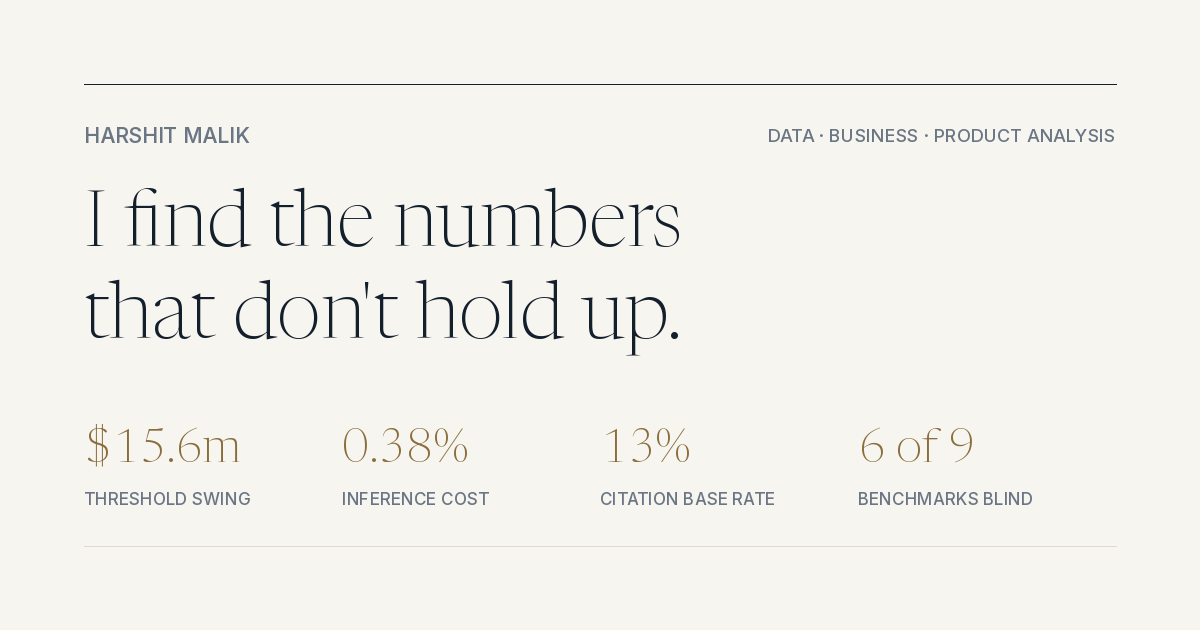
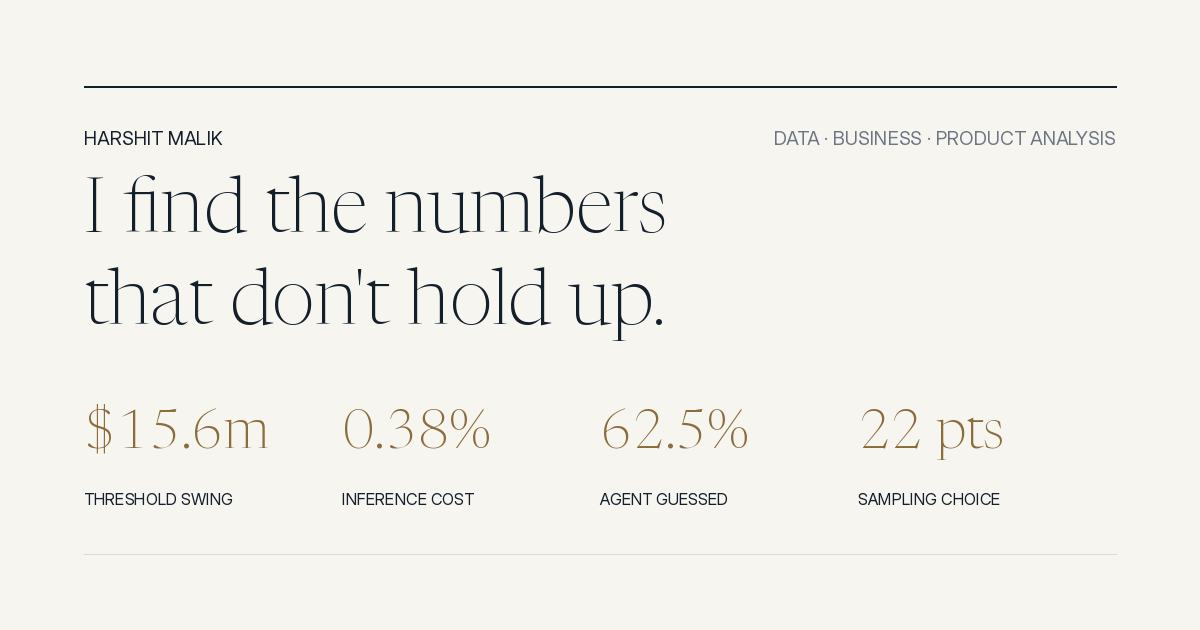
the share card had gone stale, and nothing was checking it
The card is what a stranger sees when the link is pasted into Slack or
LinkedIn. Nothing on the site renders it, so it is the one asset that can drift
without anyone noticing — and it had, carrying the opening figures of the first
four engagements long after there were eight.

Two figures replaced so the four span the work rather than its first half:
62.5%, the share of undecidable cases a frontier agent answered anyway, and 22
points, the concentration available purely by choosing a sampling depth.
$15.6m and 0.38% stay.

Regenerated in the site's own fonts, pulled from Google Fonts rather than
approximated, so the card matches the page it represents.

check-share-card.py asserts every figure on the card appears in the page. A
portfolio arguing that unchecked numbers get repeated should not have had an
unchecked number on its own cover.

diff --git a/check-share-card.py b/check-share-card.py
@@ -1,0 +1,37 @@
+#!/usr/bin/env python3
+"""
+Every figure on the share card must appear on the page.
+
+The card is what a stranger sees when the link is pasted into Slack or
+LinkedIn, and nothing on the site renders it, so it is the one asset that can
+go stale without anyone noticing. It did: it carried the opening figures of
+the first four engagements long after there were eight.
+
+Run before publishing. It checks the claim, not the image.
+"""
+
+import pathlib
+import sys
+
+# Kept in step with the figures drawn in the card. Changing one means
+# changing both, which is the point.
+CARD_FIGURES = ["$15.6m", "0.38%", "62.5%", "22 pts"]
+
+
+def main() -> int:
+    page = pathlib.Path(__file__).parent / "index.html"
+    html = page.read_text()
+    missing = [f for f in CARD_FIGURES
+               if f not in html and f.replace(" ", "&nbsp;") not in html]
+    for f in CARD_FIGURES:
+        print(f"  {'ok  ' if f not in missing else 'MISS'} {f}")
+    if missing:
+        print(f"\nshare card carries figures not on the page: {missing}",
+              file=sys.stderr)
+        return 1
+    print("\nshare card is current")
+    return 0
+
+
+if __name__ == "__main__":
+    raise SystemExit(main())
